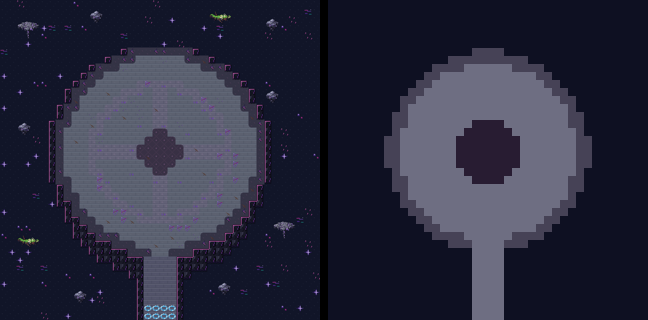
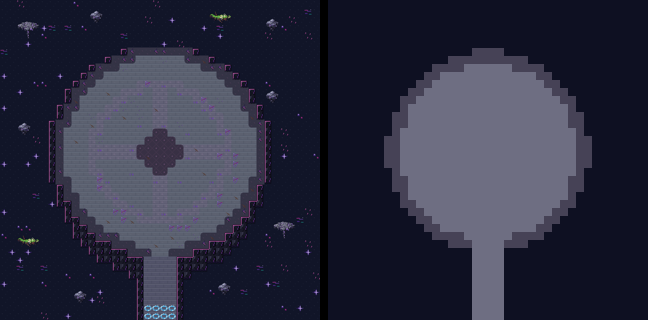
Karte 15: Mitte mit Pflaster gefuellt (Muster bleibt), Asteroid, Kristall und Geroell aus der Leere entfernt
Claude-Session: https://claude.ai/code/session_01SaoYHKhnro4LFcPJqjaPsq

Changed region(s): [[0.679, 0.375, 0.8025, 0.5938]]

diff --git a/tools/karte15_bauen.py b/tools/karte15_bauen.py
@@ -332,7 +332,7 @@ def bauen(frame=None, speichern=True):
     a[innen & np.roll(ring, 1, 0)] = H('#7a7890')                 # oben Licht
     a[innen & (np.roll(ring, 1, 1) | np.roll(ring, -1, 1))] = H('#4e4c60')
     riss = gross(kl == 'v')
-    boden = innen & ~riss
+    boden = innen                                                 # Mitte mit Pflaster gefuellt (Nutzerwunsch)
     bodenzeichen(a, boden, cx, cy, frame)
     # ------------------------------------------------------------------ Steg mit Bordsteinen
     st = textur('s', cols, rows)
@@ -359,7 +359,7 @@ def bauen(frame=None, speichern=True):
     a[aussenkante] = H('#14121c')
     innen1 = kontur(land & ~aussenkante)
     mischen(a, innen1, MAGENTA, 0.5 + 0.3 * p)                   # magenta glimmende Inselkante (wie die Vorlage)
-    wand_riss = riss_zeichnen(a, riss, cx, cy, frame, textur('v', cols, rows))
+    wand_riss = np.zeros_like(riss)                              # kein Riss mehr: Mitte ist Pflaster
     leer_rest = leer & ~bauch
     sterne(a, leer_rest, frame)
     datenstriche(a, leer_rest, frame)

diff --git a/tools/karte15_objekte.py b/tools/karte15_objekte.py
@@ -46,8 +46,7 @@ EINBETTEN = {'leere/05': ('klein/01', 'r'), 'leere/11': ('klein/08', 'l')}
 INSELN = [
     ('inseln/00', 3 * T + 8, 3), ('inseln/07', 33 * T, 2), ('inseln/03', 37 * T + 8, 9), ('inseln/02', 2 * T + 8, 12),
     ('inseln/05', 37 * T, 21), ('inseln/04', 3 * T + 8, 25), ('inseln/06', 36 * T + 8, 33), ('inseln/01', 5 * T + 8, 37),
-    ('inseln/08', 10 * T + 8, 2), ('inseln/12', 27 * T + 8, 3), ('inseln/15', 1 * T + 8, 31), ('inseln/09', 30 * T + 8, 38),
-    ('inseln/13', 10 * T + 8, 38), ('inseln/10', 38 * T + 8, 15),
+('inseln/12', 27 * T + 8, 3), ('inseln/15', 1 * T + 8, 31), ('inseln/13', 10 * T + 8, 38), 
 ]
 INSEL_OBJEKTE = False           # Nutzerwunsch: keine Objekte auf der Plattform
 ANIM_INSEL = {'inseln/10': 'schweben', 'inseln/12': 'schweben'}

diff --git a/tools/karte15_layout.py b/tools/karte15_layout.py
@@ -31,7 +31,7 @@ def main():
     h[platt | steg] = 2
     dx, dy = np.abs(xx + 0.5 - CX), np.abs(yy + 0.5 - CY)
     riss = ((dx <= 1.5) & (dy <= 3.5)) | ((dx <= 3.5) & (dy <= 1.5)) | ((dx <= 2.5) & (dy <= 2.5))   # Kreuz, gestuft
-    k[riss] = 'v'
+    # k[riss] = 'v'   (Mitte auf Wunsch mit Pflaster gefuellt; Boss-Spawn bleibt 'boss')
     lay = {'groesse': [C, R], 'klassen': [''.join(r) for r in k], 'hoehe': [''.join(str(c) for c in r) for r in h],
            'platte': [CX, CY, RAD], 'steg': [18, 21, 30], 'boss': [CX, CY],
            'teleporter': [{'x': 18, 'y': 38, 'b': 4, 'h': 2}]}
